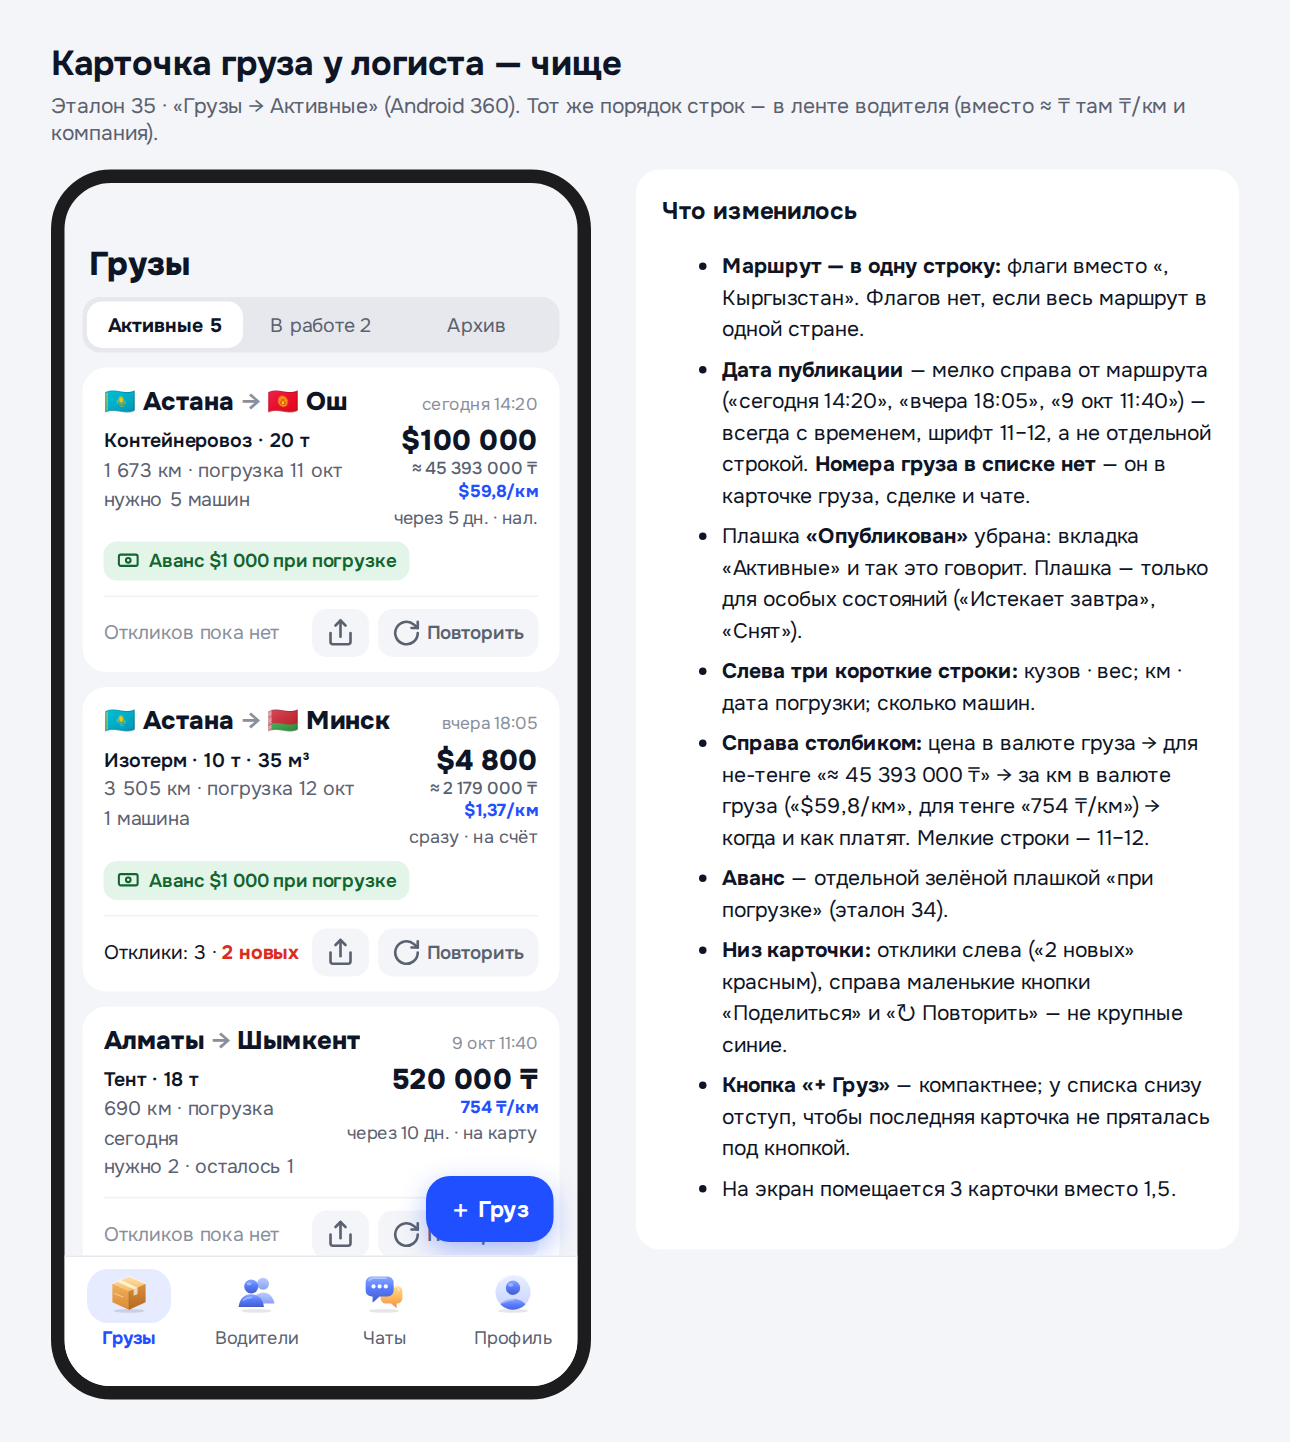
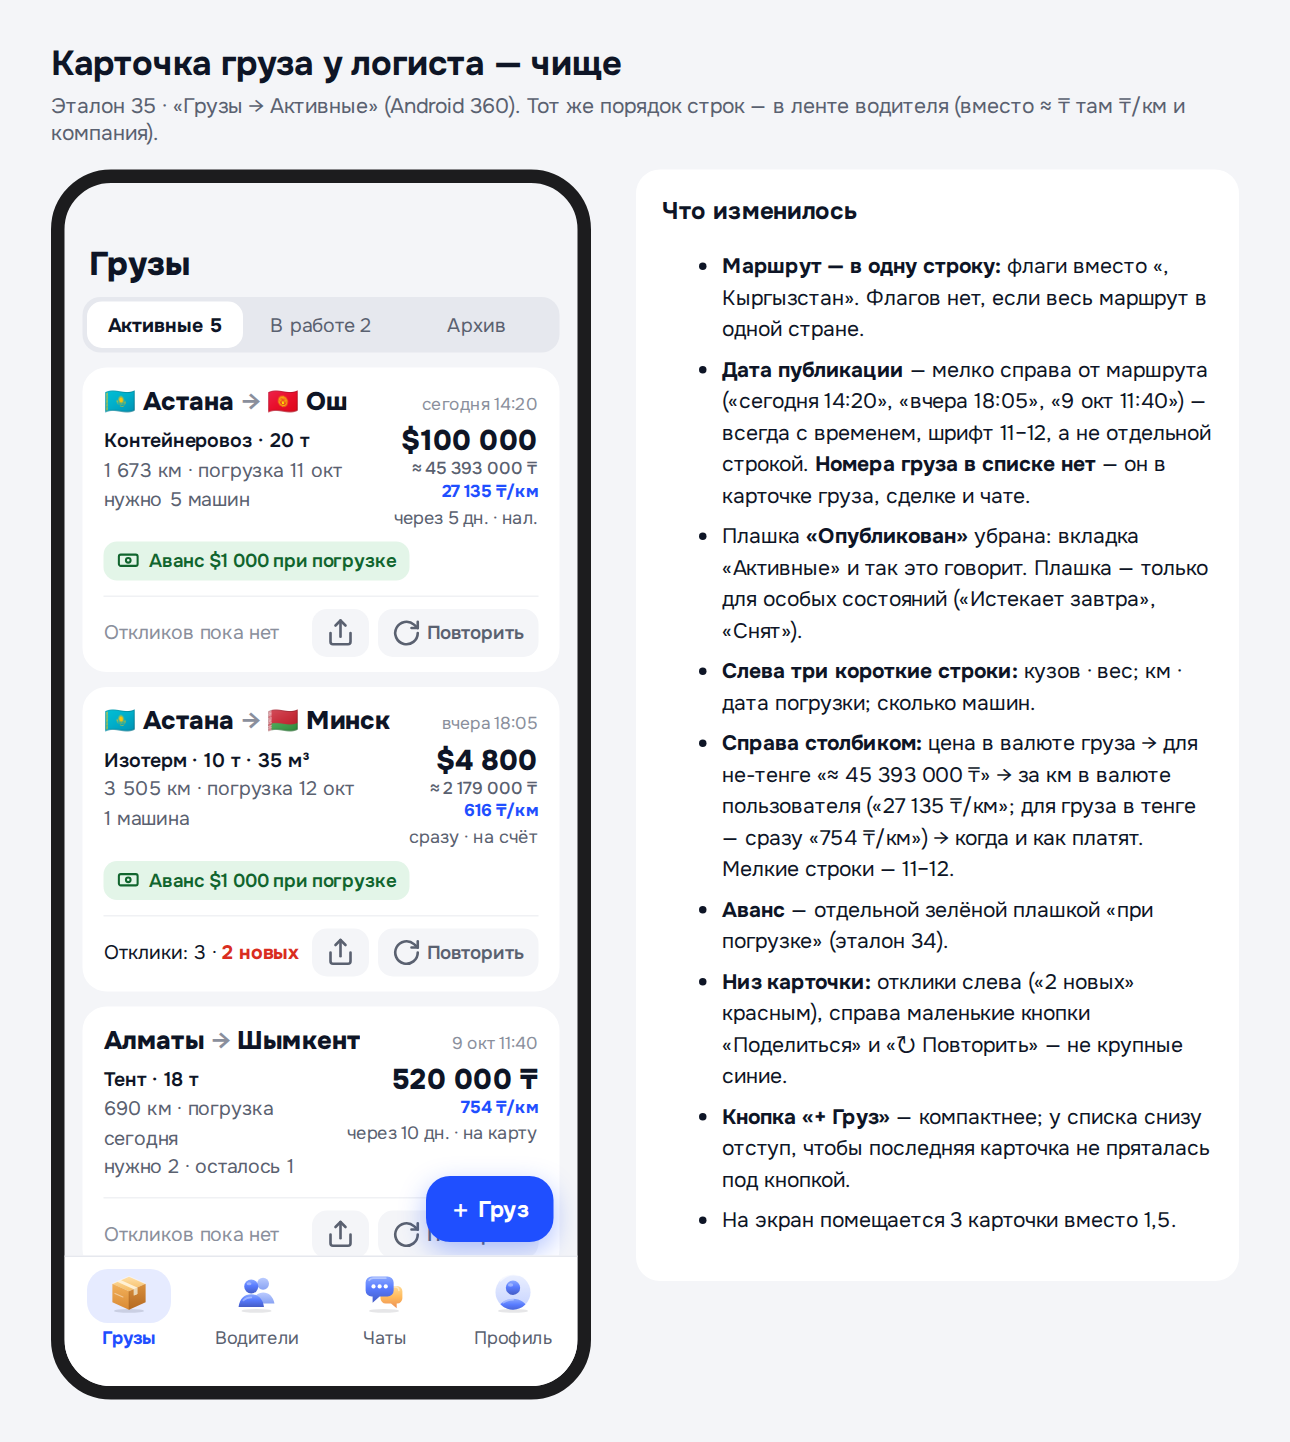
063: за км — в валюте пользователя (₸/км), под ≈ суммой в ₸
Claude-Session: https://claude.ai/code/session_01Ff8oopsZvobH79mMVJKnFv

Changed region(s): [[0.5581, 0.5305, 0.9302, 0.8738], [0.3411, 0.3121, 0.3721, 0.3433]]

diff --git a/docs/tasks/063-payment-layout.md b/docs/tasks/063-payment-layout.md
@@ -28,7 +28,7 @@ ARB 4 языка; старые ключи `cargoAdvance` / `paymentDelayShort` /
   3. «нужно 5 машин» / «1 машина» / «нужно 2 · осталось 1».
 - **Справа столбиком:**
   1. цена;
-  2. для не-тенге — «≈ 45 393 000 ₸» (серым, мелко), под ней **за км в валюте груза** «$59,8/км» (синим, мелко); для тенге — сразу «754 ₸/км». Строки 11–12 sp, не переносятся (уточнение владельца 2026-10-11, окончательно). То же — в ленте водителя; сортировка и фильтр — по-прежнему по ₸/км;
+  2. для груза не в тенге — «≈ 45 393 000 ₸» (серым, мелко), под ней **за км в валюте пользователя** — «27 135 ₸/км» (синим, мелко); для груза в тенге — сразу «754 ₸/км». Валюта пользователя — по стране его домашнего города / компании (сейчас ₸; RUB/UZS — когда появятся пользователи из РФ/УЗ). Строки 11–12 sp, не переносятся (уточнение владельца 2026-10-11, окончательно). То же — в ленте водителя; сортировка и фильтр — по ₸/км;
   3. «через 5 дн. · нал.».
 - **Аванс** — зелёная плашка снизу (как выше).
 - **Низ карточки** — тонкая черта:
